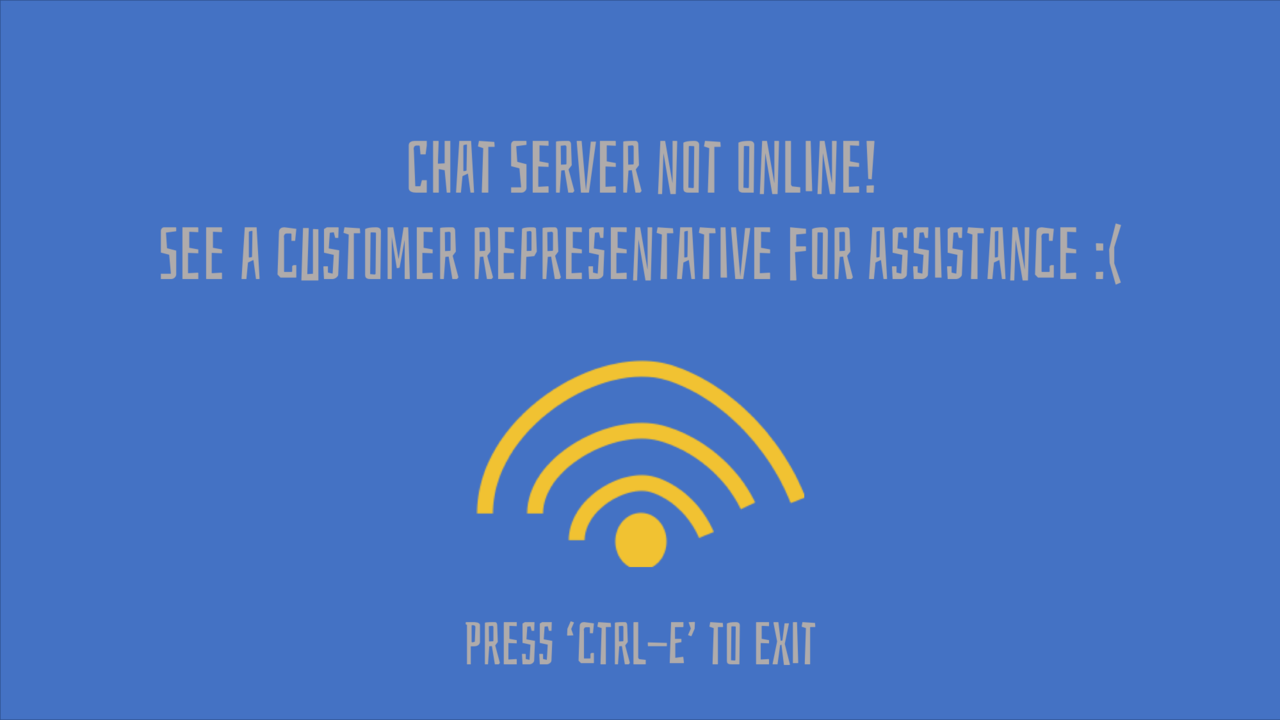
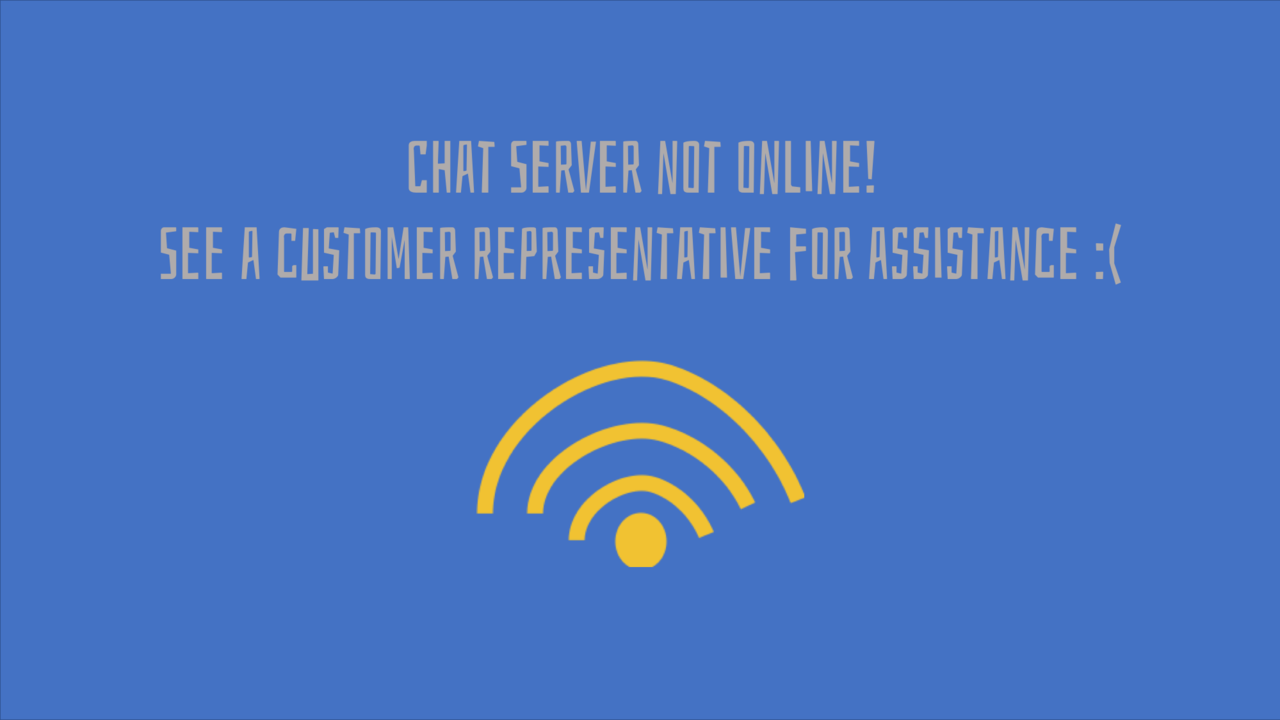
add chat_error background and friends initial functionality

Changed region(s): [[0.3438, 0.8556, 0.6562, 0.9472]]

diff --git a/Code/programfiles/chat.cpp b/Code/programfiles/chat.cpp
@@ -4,10 +4,13 @@
 
 using namespace std;
 
-// The Chat screen template
+// The Chat and friends screen template
 const std::string chatScreenPath = "Art/Chat/chat_template.png";
-//initialize chatScreen texture
+const std::string friendScreenPath = "Art/Chat/friends.png";
+
+//initialize chatScreen and friendScreen texture
 SDL_Texture* chatScreen;
+SDL_Texture* friendScreen;
 
 //inChat boolean value
 bool inChat;
@@ -23,18 +26,27 @@ int textW = 0;
 int textH = 0;
 
 //Initialize string that holds the user's input and messages from server
-std::string inputText, textFromServer;
+std::string inputText, textFromServer, friendsFromServer;
 
 //initialize surface and texture for server messages and input text
 SDL_Surface* surfaceMessage;
 SDL_Surface* surfaceInputText;
+SDL_Surface* surfaceFriends;
 
 SDL_Texture* textureMessage;
 SDL_Texture* textureInputText;
+SDL_Texture* textureFriends;
 
 //create a rect for the text textures to appear in
 SDL_Rect inputRect;
 SDL_Rect serverMessageRect;
+SDL_Rect friendsRect;
+
+//wifi symbol dimensions
+const int WIFI_TOP = 32;
+const int WIFI_BOTTOM = 95;
+const int WIFI_LEFT = 812;
+const int WIFI_RIGHT = 902;
 
 /*layout dimensions
     User input box left X: 32
@@ -48,6 +60,9 @@ void enter_chat(SDL_Event e, bool *quit, const Uint8 *keyState, SDL_Renderer* re
 
   //set inChat boolean value
   inChat = true;
+
+  int cursor_x;
+  int cursor_y;
 
   //set chatScreen texture
   chatScreen = loadFiles(chatScreenPath, renderer);
@@ -174,6 +189,81 @@ void enter_chat(SDL_Event e, bool *quit, const Uint8 *keyState, SDL_Renderer* re
     bool send_text = false;
 
     while (SDL_PollEvent(&e) != 0) {
+
+      // if mouse is clicked and released
+      if(e.type == SDL_MOUSEBUTTONUP) {
+        // Get mouse position
+        cursor_x = e.motion.x;
+        cursor_y = e.motion.y;
+
+        // ALL_BUTTON_TOP Y value: 532
+        // ALL_BUTTON_BOTTOM Y value: 618
+        // check if click was in Y range of buttons
+        // if it wasn't in Y range, no need to check X range
+        if((cursor_y < WIFI_BOTTOM) && (cursor_y > WIFI_TOP) &&
+        (cursor_x > WIFI_LEFT) && (cursor_x < WIFI_RIGHT))
+        {
+          //set friendScreen texture
+          friendScreen = loadFiles(friendScreenPath, renderer);
+
+          //render friend screen
+          // SDL_RenderClear(renderer);
+          SDL_RenderCopy(renderer, friendScreen, NULL, NULL);
+
+
+
+
+          //set friendsFromServer string to be friends
+          friendsFromServer = "THIS REPLACED BY SERVER TEXT OF FRIENDS";
+          /////////^^^^^^^^REPLACE THIS ONE WITH INPUT FROMS ERVER^^^^^^^///////
+
+
+
+
+          //convert server text into 'friends' char needed for TTF_RenderText_Blended_Wrapped
+          char friends[friendsFromServer.size() + 1];
+          std::copy(friendsFromServer.begin(), friendsFromServer.end(), friends);
+          friends[friendsFromServer.size()] = '\0';
+
+          //set friends text surface and convert into texture, 1000 sets the text to
+          //wrap to the next line at that pixel
+          surfaceFriends = TTF_RenderText_Blended_Wrapped(fontStyle, friends, textWhite, 1000);
+          textureFriends = SDL_CreateTextureFromSurface(renderer, surfaceFriends);
+
+          //returns inherent width and height of font determed by size set in fontStyle variable
+          //stores these values in textH and textW variables
+          SDL_QueryTexture(textureFriends, NULL, NULL, &textW, &textH);
+
+          //rect for messages from server
+          friendsRect.x = 300;
+          friendsRect.y = 270;
+          friendsRect.w = textW;
+          friendsRect.h = textH;
+
+          SDL_RenderPresent(renderer);
+
+          // Get the Keyboard State
+          keyState = SDL_GetKeyboardState(NULL);
+
+          while(true){
+            if(keyState[SDL_SCANCODE_LCTRL] || keyState[SDL_SCANCODE_RCTRL]){
+              if (keyState[SDL_SCANCODE_E]){
+                std::cout << "Exiting friends\n";
+
+                //clear friends ttf text
+                SDL_DestroyTexture(textureFriends);
+
+                //clear friends background
+                SDL_DestroyTexture(friendScreen);
+                SDL_RenderClear(renderer);
+
+                break;
+              }
+            }
+          }
+        } //end if wifi is clicked
+      } //end if click
+
 
       //Quit application
       if(e.type == SDL_QUIT) {
